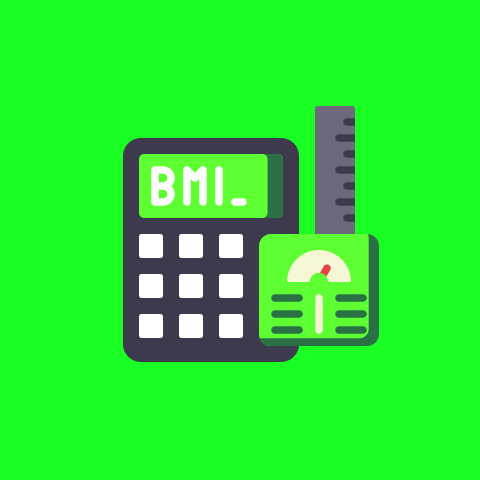
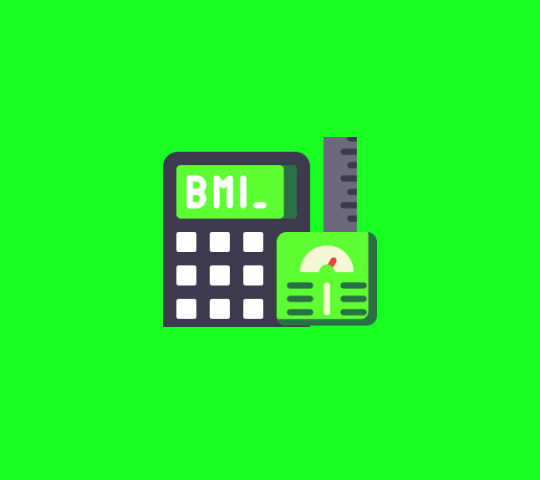
Images expanded
- expanded and maxFinite width setted

Changed region(s): [[0.25, 0.2188, 0.8125, 0.7812]]

diff --git a/portfolio_vinidev/lib/app/dashboard/projects/projects_view.dart b/portfolio_vinidev/lib/app/dashboard/projects/projects_view.dart
@@ -31,19 +31,28 @@ class _ProjectsViewState extends State<ProjectsView> {
           ),
           const Spacer(),
           Row(
-            mainAxisAlignment: MainAxisAlignment.spaceBetween,
+            mainAxisAlignment: MainAxisAlignment.start,
             children: [
-              Image.asset(
-                "assets/images/projects/protechtor_gear.png",
-                height: screenSize.height * 0.55,
+              Expanded(
+                child: Image.asset(
+                  "assets/images/projects/protechtor_gear.png",
+                  height: screenSize.height * 0.55,
+                  fit: BoxFit.fitWidth,
+                ),
               ),
-              Image.asset(
-                "assets/images/projects/bmi_check.png",
-                height: screenSize.height * 0.55,
+              Expanded(
+                child: Image.asset(
+                  "assets/images/projects/bmi_check.png",
+                  height: screenSize.height * 0.55,
+                  fit: BoxFit.fitWidth,
+                ),
               ),
-              Image.asset(
-                "assets/images/projects/plus+.png",
-                height: screenSize.height * 0.55,
+              Expanded(
+                child: Image.asset(
+                  "assets/images/projects/plus+.png",
+                  height: screenSize.height * 0.55,
+                  fit: BoxFit.fitWidth,
+                ),
               ),
             ],
           ),
